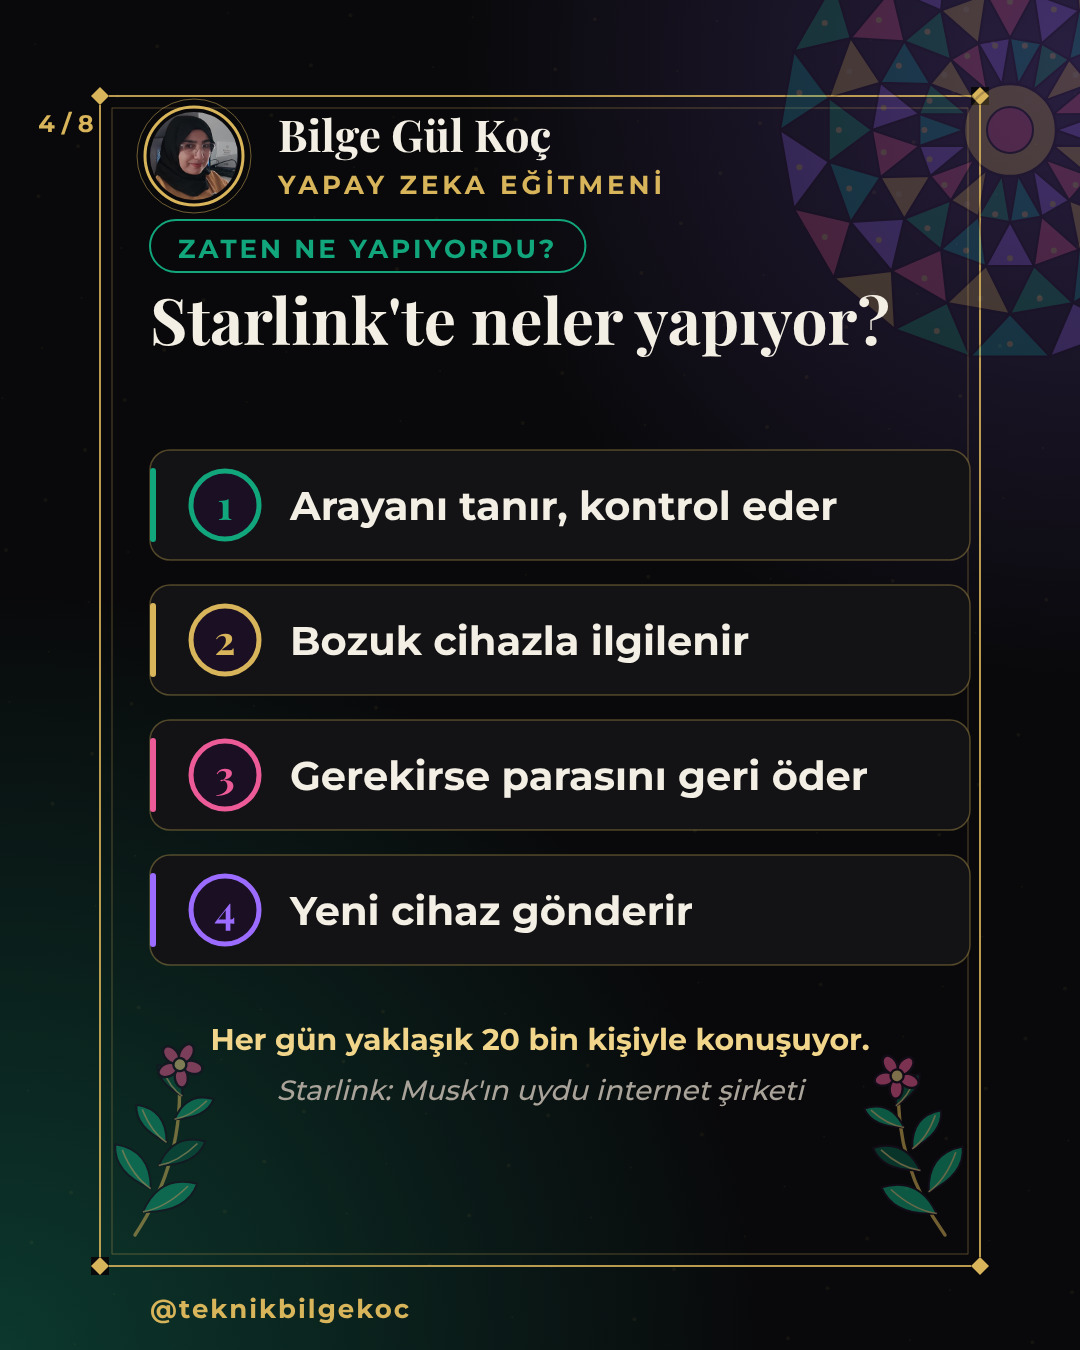
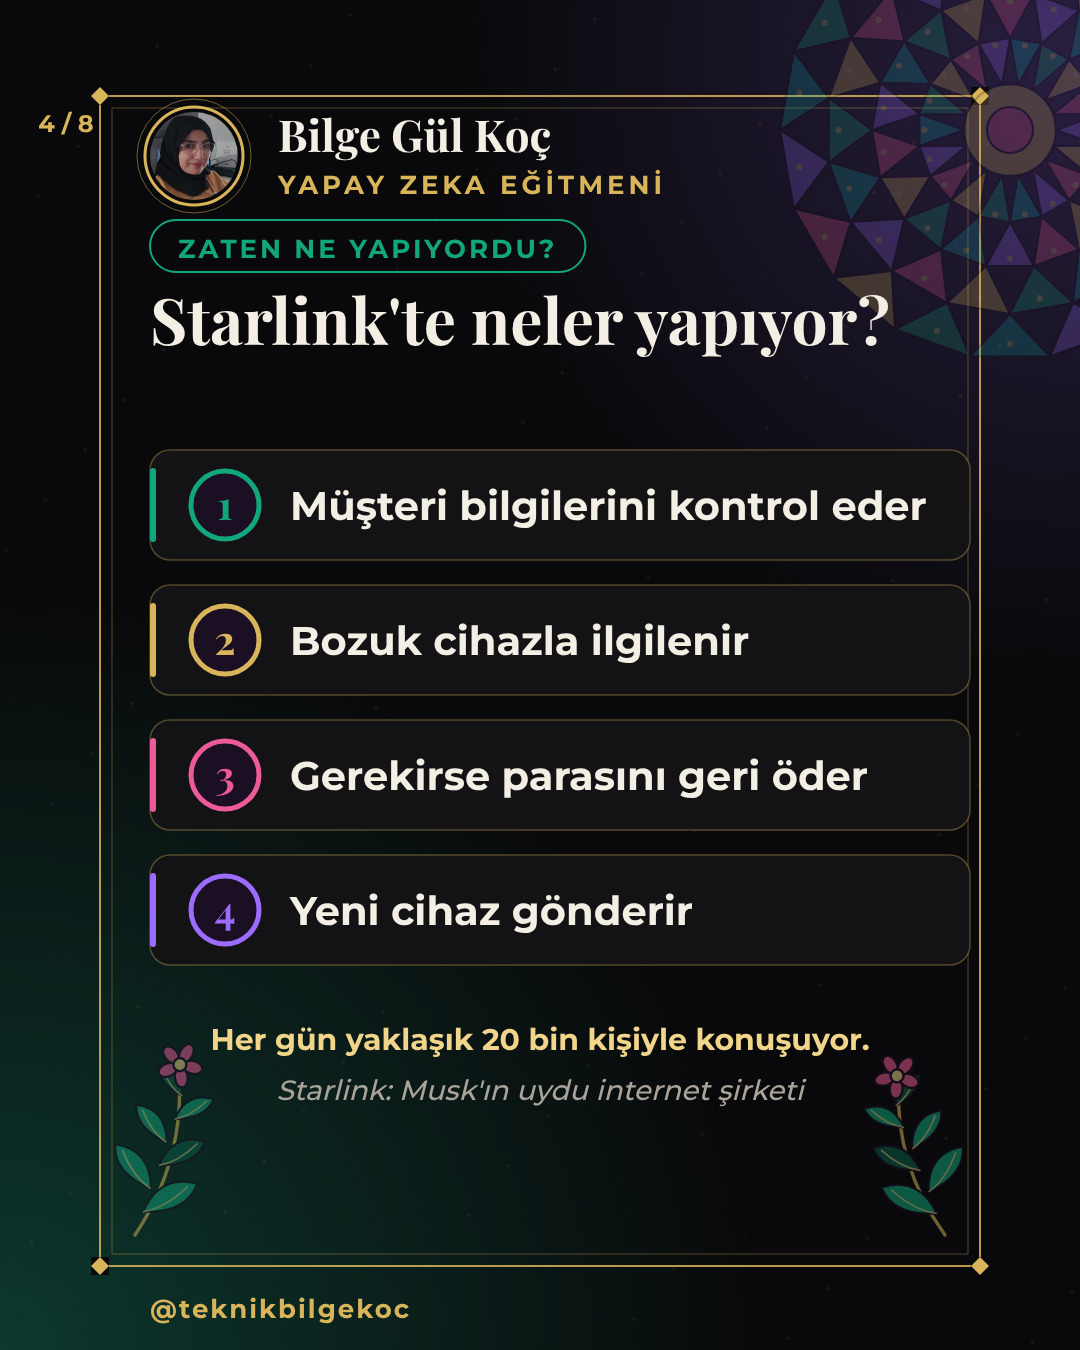
Sade örnek: ikinci okur kontrolü düzeltmeleri
Claude-Session: https://claude.ai/code/session_01XC4Pp79YRtqX5bGTif3hZa

Changed region(s): [[0.4278, 0.3422, 0.8556, 0.4044], [0.275, 0.3422, 0.3972, 0.4044]]

diff --git a/2026-10-15-sade/s3.js b/2026-10-15-sade/s3.js
@@ -15,15 +15,15 @@ const ok = (x1, y, x2, col = C.gold) => { P(svg, `M${x1} ${y} H${x2}`, 'none', {
 async function build() {
   await fontsReady(); paper('pink'); footer('3 / 8'); suslemeler();
   baslik('NE DEĞİŞTİ?', 'Zor aramalarda daha iyi', C.gold);
-  card(150, 380, 390, 470, C.pink);
+  card(150, 380, 390, 400, C.pink);
   text('ESKİ SÜRÜM', 345, 450, { size: 28, weight: 700, color: C.pink, anchor: 'middle', ls: 3 });
-  text('Yarı yarıya', 345, 600, { size: 52, weight: 700, color: C.ivory, anchor: 'middle' });
-  text('takılıyordu', 345, 660, { size: 34, color: C.muted, anchor: 'middle' });
-  card(570, 380, 400, 470, C.emerald);
+  text('Yarısında', 345, 600, { size: 52, weight: 700, color: C.ivory, anchor: 'middle' });
+  text('işi beceremiyordu', 345, 660, { size: 34, color: C.muted, anchor: 'middle' });
+  card(570, 380, 400, 400, C.emerald);
   text('YENİ SÜRÜM', 770, 450, { size: 28, weight: 700, color: C.emerald, anchor: 'middle', ls: 3 });
   text('Çoğunu', 770, 600, { size: 52, weight: 700, color: C.goldHi, anchor: 'middle' });
   text('hallediyor', 770, 660, { size: 34, color: C.ivory, anchor: 'middle' });
-  para('Zor arama: aksanlı, arkası gürültülü, sözün kesildiği görüşme. Sonuç, şirketin açıkladığı bir testten.', 150, 920, { size: 30, italic: true, color: C.muted, width: 820 });
+  para('Zor arama: aksanlı, arkası gürültülü ya da arayanın lafı böldüğü görüşme. Bu sonucu şirket kendi testinden açıkladı.', 150, 860, { size: 30, italic: true, color: C.muted, width: 820 });
   kaydir();
   done();
 }

diff --git a/2026-10-15-sade/s2.js b/2026-10-15-sade/s2.js
@@ -17,14 +17,14 @@ async function build() {
   baslik('NE OLDU? · 14 EKİM', 'Yeni sürüm geldi', C.pink);
   card(150, 380, 820, 300, C.pink);
   ahize(300, 520, C.goldHi, 1.5); sesDalga(370, 505, C.pink, 1.2);
-  text('Musk\'ın şirketi xAI\'ın', 470, 480, { size: 31, weight: 700, color: C.ivory });
-  text('telefon asistanı Starlink\'te', 470, 530, { size: 31, weight: 700, color: C.ivory });
+  text('Musk\'ın yapay zeka şirketinin', 470, 480, { size: 31, weight: 700, color: C.ivory });
+  text('telefon asistanı, Starlink\'te', 470, 530, { size: 31, weight: 700, color: C.ivory });
   text('aylardır müşteriyle konuşuyor.', 470, 580, { size: 31, weight: 700, color: C.ivory });
-  text('Adı Grok Voice. 3. sürümü çıktı.', 470, 640, { size: 29, color: C.goldHi });
+  text('Adı Grok Voice. Yeni hâli çıktı.', 470, 640, { size: 29, color: C.goldHi });
   card(150, 720, 820, 270, C.gold);
   text('Fiyat değişmedi.', 200, 810, { size: 50, weight: 700, color: C.ivory });
-  text('Geçiş kendiliğinden.', 200, 875, { size: 50, weight: 700, italic: true, color: C.goldHi });
-  text('Kullananın bir şey yapması gerekmiyor.', 200, 940, { size: 34, color: C.muted });
+  text('Kendi kendine güncellendi.', 200, 875, { size: 50, weight: 700, italic: true, color: C.goldHi });
+  text('Telefon güncellemesi gibi.', 200, 940, { size: 34, color: C.muted });
   kaydir();
   done();
 }

diff --git a/2026-10-15-sade/s1.js b/2026-10-15-sade/s1.js
@@ -16,9 +16,9 @@ async function build() {
   });
   perde(720, 1250);
   rozetZemin(); profil(150, 124, 112);
-  chip('GROK VOICE · YENİ SÜRÜM', 150, 905, C.gold);
-  serif('Musk\'ın telefon', 150, 1010, { size: 72, color: C.ivory });
-  serif('asistanı yenilendi.', 150, 1094, { size: 72, color: C.goldHi });
+  chip('ELON MUSK · GROK VOICE', 150, 905, C.gold);
+  serif('Müşteriyle konuşan', 150, 1010, { size: 72, color: C.ivory });
+  serif('yapay zeka yenilendi.', 150, 1094, { size: 72, color: C.goldHi });
   serif('Ne değişti?', 150, 1178, { size: 72, color: C.ivory, italic: true, weight: 600 });
   text('kaydır →', 950, 1318, { size: 52, font: 'Caveat', weight: 700, color: C.gold, anchor: 'end' }).dataset.free = 1;
   done();

diff --git a/2026-10-15-sade/s4.js b/2026-10-15-sade/s4.js
@@ -15,7 +15,7 @@ const ok = (x1, y, x2, col = C.gold) => { P(svg, `M${x1} ${y} H${x2}`, 'none', {
 async function build() {
   await fontsReady(); paper('purple'); footer('4 / 8'); suslemeler();
   baslik('ZATEN NE YAPIYORDU?', 'Starlink\'te neler yapıyor?', C.emerald);
-  const adim = [['Arayanı tanır, kontrol eder', C.emerald], ['Bozuk cihazla ilgilenir', C.gold], ['Gerekirse parasını geri öder', C.pink], ['Yeni cihaz gönderir', C.purple]];
+  const adim = [['Müşteri bilgilerini kontrol eder', C.emerald], ['Bozuk cihazla ilgilenir', C.gold], ['Gerekirse parasını geri öder', C.pink], ['Yeni cihaz gönderir', C.purple]];
   adim.forEach(([t, col], i) => {
     const y = 390 + i * 135;
     card(150, y, 820, 110, col);
